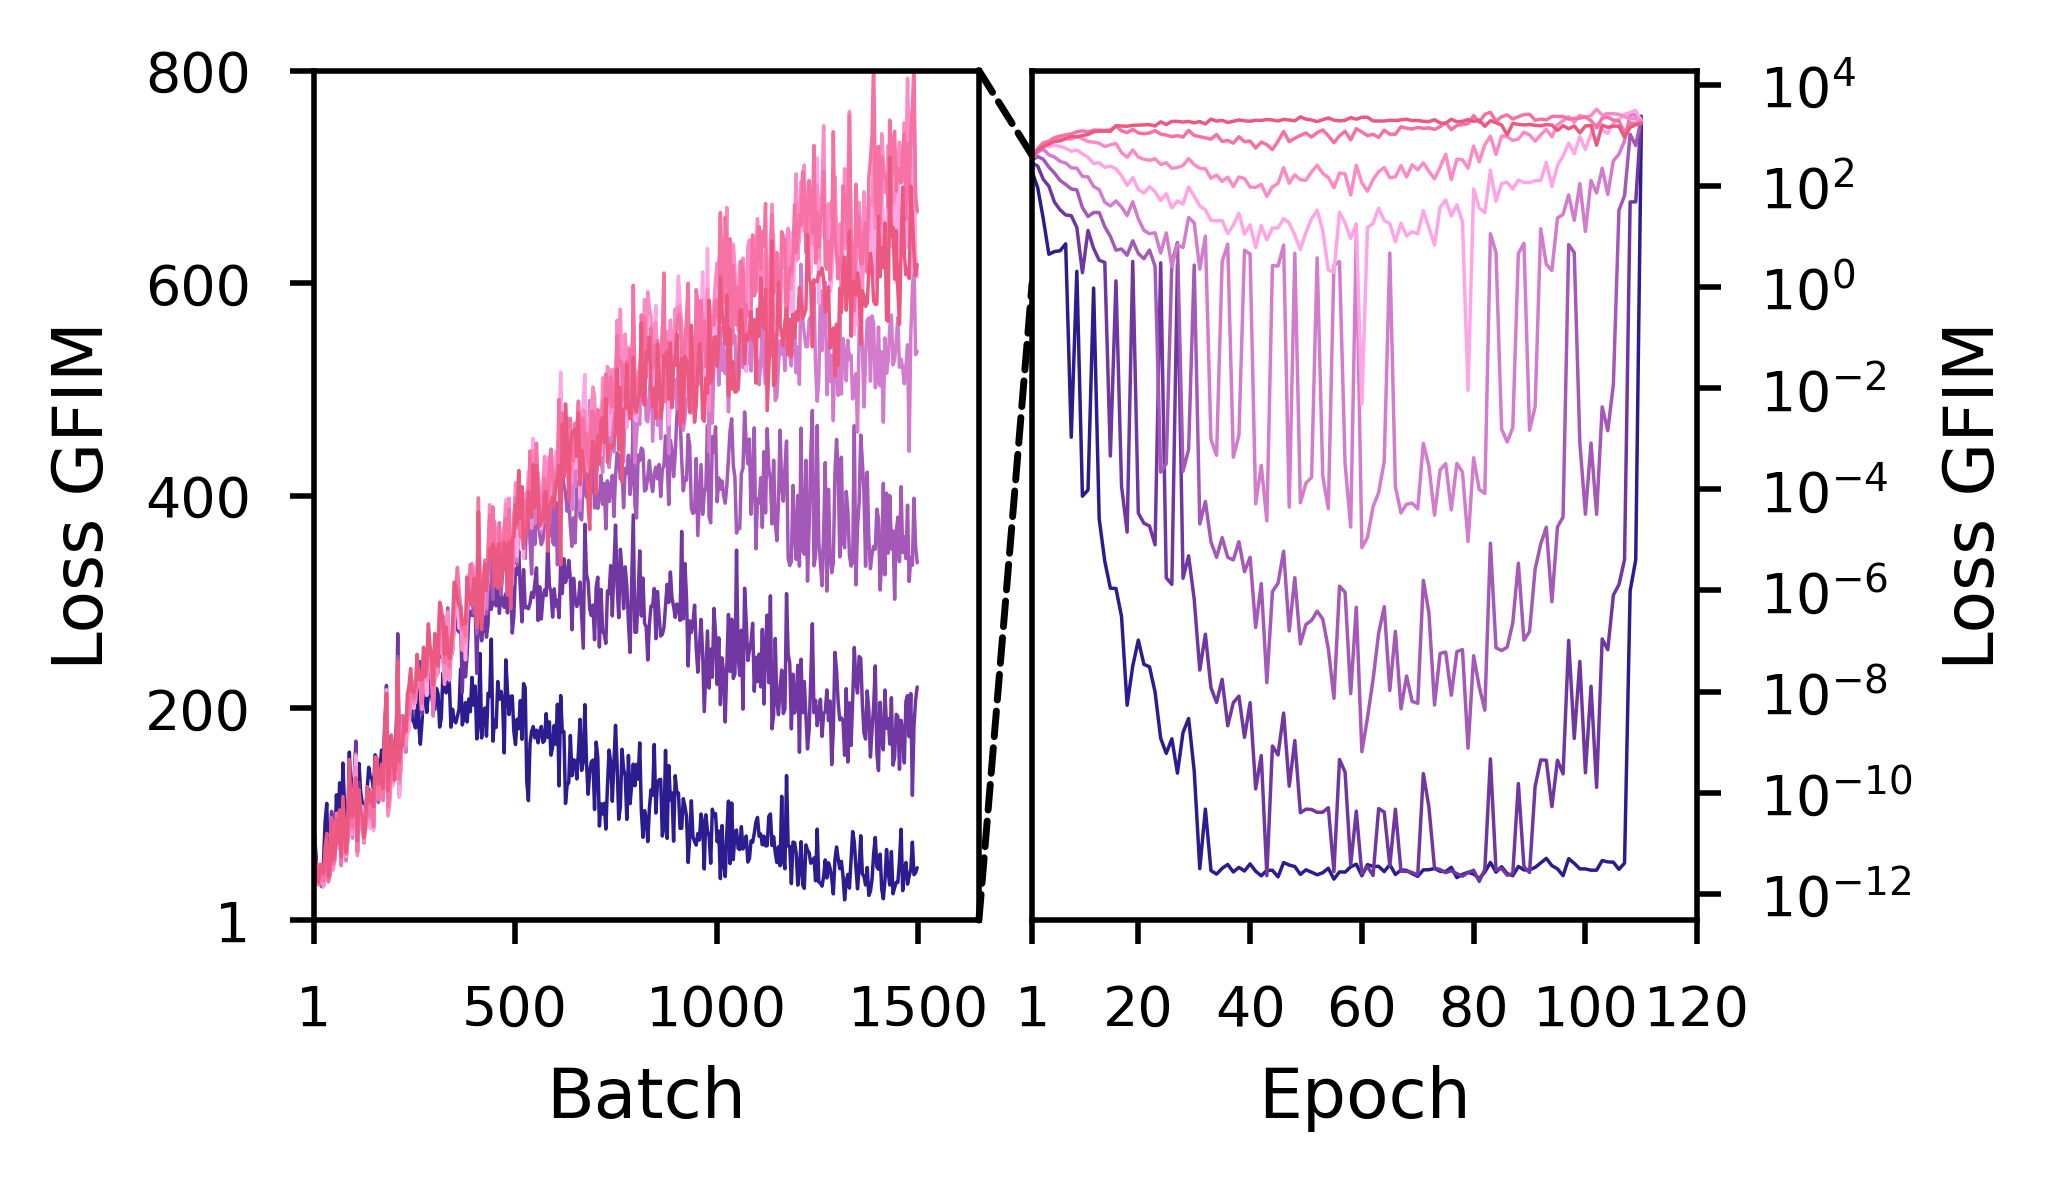
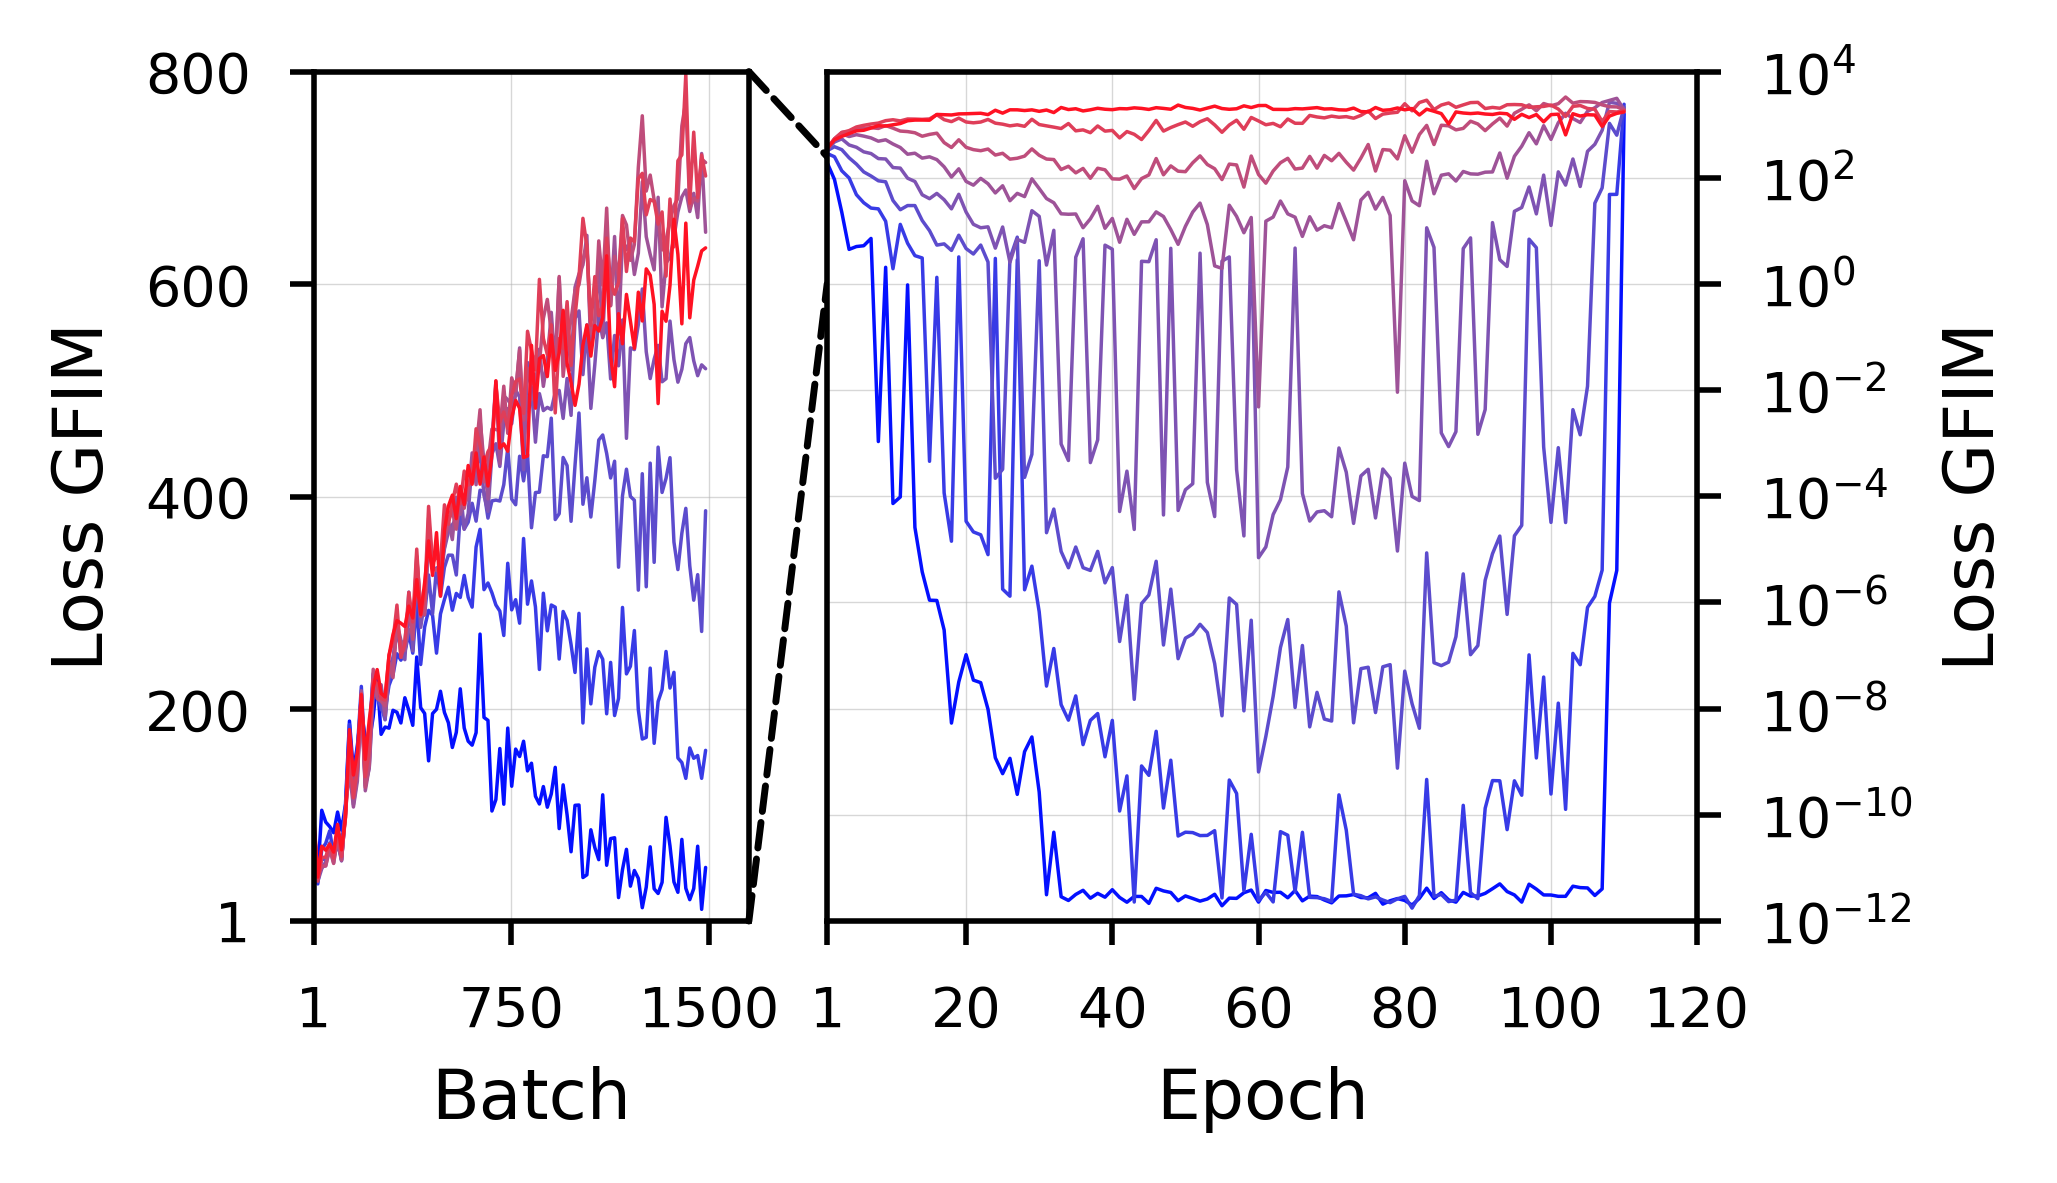
new

diff --git a/graphs.py b/graphs.py
@@ -53,7 +53,8 @@ plt.rcParams.update({
     "ytick.labelsize": 8
 })
 
-cols = ["#2b1c8f","#7037a3","#a458b7","#d37ccd","#ffa4e4","#fc8bc5","#f672a4","#ec5980"]
+#cols = ["#2b1c8f","#7037a3","#a458b7","#d37ccd","#ffa4e4","#fc8bc5","#f672a4","#ec5980"]
+cols = ["#0410ff","#383be6","#5c4ccd","#7e53b3","#9e5398","#bf4d7b","#df3e59","#ff1223"]
 linsize = 0.5
 
 #OriginalFIM
@@ -93,10 +94,10 @@ def make_OGFIM():
 
 def make_T1GFIM():
     T1FIMstep = pd.read_csv('T1_step.csv', sep=',')
-    T1FIMstep = T1FIMstep.iloc[::4]
+    T1FIMstep = T1FIMstep.iloc[::15]
     print(T1FIMstep.head())
 
-    fig, (ax1,ax2) = plt.subplots(1,2,figsize=set_size(516,0.5),gridspec_kw={'wspace': 0.08})
+    fig, (ax1,ax2) = plt.subplots(1,2,figsize=set_size(516,fraction=0.5),gridspec_kw={'wspace': 0.15},width_ratios=[1, 2])
     sea.set(style="whitegrid")
     
     sea.lineplot(ax=ax1,x="Step",y="0",data=T1FIMstep,label="0 (Low)",linewidth=linsize,color=cols[0])
@@ -114,9 +115,11 @@ def make_T1GFIM():
     ax1.yaxis.set_ticks([1,50,100,150,200,250])
 
     ax1.set_xlabel("Batch")
-    ax1.set_xlim([1,1650])
+    ax1.set_xlim([1,1500])
     start,end = ax1.get_xlim()
-    ax1.xaxis.set_ticks([1,500,1000,1500])
+    ax1.xaxis.set_ticks([1,750,1500])
+    ax1.grid(True,which='major',axis='both',linestyle='-',linewidth=0.2,alpha=0.5)
+    ax1.grid(True,which='minor',axis='both',linestyle='--',linewidth=0.2,alpha=0.5)
     ax1.get_legend().remove()
 
     #Epoch graphs
@@ -144,6 +147,9 @@ def make_T1GFIM():
     ax2.set_yscale('log')
     ax2.yaxis.set_ticks([1e-12,1e-10,1e-8,1e-6,1e-4,1e-2,1e0,1e2,1e4])
 
+    ax2.grid(True,which='major',axis='both',linestyle='-',linewidth=0.2,alpha=0.5)
+    ax2.grid(True,which='minor',axis='y',linestyle='--',linewidth=0.2,alpha=0.5)
+
     ax2.get_legend().remove()
 
     con1 = ConnectionPatch(xyA=(1,1),
@@ -168,11 +174,9 @@ def make_T1GFIM():
 
 def make_T2GFIM():
     FIMstep = pd.read_csv('T2_step.csv', sep=',')
-    FIMstep = FIMstep.iloc[::4]
-    
-    print(FIMstep.head())
+    FIMstep = FIMstep.iloc[::15]
 
-    fig, (ax1,ax2) = plt.subplots(1,2,figsize=set_size(516,0.5),gridspec_kw={'wspace': 0.08})
+    fig, (ax1,ax2) = plt.subplots(1,2,figsize=set_size(516,fraction=0.5),gridspec_kw={'wspace': 0.12},width_ratios=[1, 2])
     sea.set(style="whitegrid")
     
     sea.lineplot(ax=ax1,x="Step",y="0",data=FIMstep,label="0 (Low)",linewidth=linsize,color=cols[0])
@@ -192,7 +196,10 @@ def make_T2GFIM():
     ax1.set_xlabel("Batch")
     ax1.set_xlim([1,1650])
     start,end = ax1.get_xlim()
-    ax1.xaxis.set_ticks([1,500,1000,1500])
+    ax1.xaxis.set_ticks([1,750,1500])
+    ax1.grid(True,which='major',axis='both',linestyle='-',linewidth=0.2,alpha=0.5)
+    ax1.grid(True,which='minor',axis='both',linestyle='--',linewidth=0.2,alpha=0.5)
+    
     ax1.get_legend().remove()
 
     #Epoch graphs
@@ -218,7 +225,10 @@ def make_T2GFIM():
     ax2.yaxis.set_label_position("right")
     ax2.yaxis.tick_right()
     ax2.set_yscale('log')
+    ax2.set_ylim([1e-12,1e4])
     ax2.yaxis.set_ticks([1e-12,1e-10,1e-8,1e-6,1e-4,1e-2,1e0,1e2,1e4])
+    ax2.grid(True,which='major',axis='both',linestyle='-',linewidth=0.2,alpha=0.5)
+    ax2.grid(True,which='minor',axis='both',linestyle='--',linewidth=0.2,alpha=0.5)
 
     ax2.get_legend().remove()
 
@@ -244,11 +254,11 @@ def make_T2GFIM():
 
 def make_T3GFIM():
     FIMstep = pd.read_csv('T3_step.csv', sep=',')
-    FIMstep = FIMstep.iloc[::8]
+    FIMstep = FIMstep.iloc[::30]
     
     print(FIMstep.head())
 
-    fig, (ax1,ax2) = plt.subplots(1,2,figsize=set_size(516,0.5),gridspec_kw={'wspace': 0.14})
+    fig, (ax1,ax2) = plt.subplots(1,2,figsize=set_size(516,fraction=0.5),gridspec_kw={'wspace': 0.14},width_ratios=[1, 2])
     sea.set(style="whitegrid")
     
     sea.lineplot(ax=ax1,x="Step",y="0",data=FIMstep,label="0 (Low)",linewidth=linsize,color=cols[0])
@@ -266,9 +276,11 @@ def make_T3GFIM():
     ax1.yaxis.set_ticks([1,200,400,600,800,1000,1200,1400,1600,1800,2000])
 
     ax1.set_xlabel("Batch")
-    ax1.set_xlim([1,3100])
+    ax1.set_xlim([1,3000])
     start,end = ax1.get_xlim()
-    ax1.xaxis.set_ticks([1,1000,2000,3000])
+    ax1.xaxis.set_ticks([1,1500,3000])
+    ax1.grid(True,which='major',axis='both',linestyle='-',linewidth=0.2,alpha=0.5)
+    ax1.grid(True,which='minor',axis='both',linestyle='--',linewidth=0.2,alpha=0.5)
     ax1.get_legend().remove()
 
     #Epoch graphs
@@ -289,14 +301,17 @@ def make_T3GFIM():
 
     ax2.set_xlabel("Epoch")
     #set the range of x axis
-    ax2.set_xlim([1,65])
+    ax2.set_xlim([1,60])
     ax2.xaxis.set_ticks([1,20,40,60])
 
     ax2.set_ylabel("Loss GFIM")
     ax2.yaxis.set_label_position("right")
     ax2.yaxis.tick_right()
     ax2.set_yscale('log')
+    ax2.set_ylim([1e-12,1e5])
     ax2.yaxis.set_ticks([1e-12,1e-10,1e-8,1e-6,1e-4,1e-2,1e0,1e2,1e4])
+    ax2.grid(True,which='major',axis='both',linestyle='-',linewidth=0.2,alpha=0.5)
+    ax2.grid(True,which='minor',axis='both',linestyle='--',linewidth=0.2,alpha=0.5)
 
     ax2.get_legend().remove()
 
@@ -322,11 +337,9 @@ def make_T3GFIM():
 
 def make_T4GFIM():
     FIMstep = pd.read_csv('T4_step.csv', sep=',')
-    FIMstep = FIMstep.iloc[::8]
-    
-    print(FIMstep.head())
+    FIMstep = FIMstep.iloc[::15]
 
-    fig, (ax1,ax2) = plt.subplots(1,2,figsize=set_size(516,0.5),gridspec_kw={'wspace': 0.14})
+    fig, (ax1,ax2) = plt.subplots(1,2,figsize=set_size(516,fraction=0.5),gridspec_kw={'wspace': 0.14},width_ratios=[1, 2])
     sea.set(style="whitegrid")
     
     sea.lineplot(ax=ax1,x="Step",y="0",data=FIMstep,label="0 (Low)",linewidth=linsize,color=cols[0])
@@ -341,13 +354,15 @@ def make_T4GFIM():
     #plt.ylabel("T1 GFIM")
     ax1.set_ylabel("Loss GFIM")
     ax1.set_ylim([1,60000])
-    ax1.yaxis.set_ticks([1,20000,40000,60000])
+    ax1.yaxis.set_ticks([1,10000,20000,30000,40000,50000,60000])
     #ax1.set_yscale('log')
 
     ax1.set_xlabel("Batch")
-    ax1.set_xlim([1,1300])
+    ax1.set_xlim([1,1200])
     start,end = ax1.get_xlim()
     ax1.xaxis.set_ticks([1,400,800,1200])
+    ax1.grid(True,which='major',axis='both',linestyle='-',linewidth=0.2,alpha=0.5)
+    ax1.grid(True,which='minor',axis='y',linestyle='--',linewidth=0.2,alpha=0.5)
     ax1.get_legend().remove()
 
     #Epoch graphs
@@ -368,14 +383,16 @@ def make_T4GFIM():
 
     ax2.set_xlabel("Epoch")
     #set the range of x axis
-    ax2.set_xlim([1,55])
-    ax2.xaxis.set_ticks([1,20,40])
+    ax2.set_xlim([1,50])
+    ax2.xaxis.set_ticks([1,10,20,30,40,50])
 
     ax2.set_ylabel("Loss GFIM")
     ax2.yaxis.set_label_position("right")
     ax2.yaxis.tick_right()
     ax2.set_yscale('log')
     ax2.yaxis.set_ticks([1e-10,1e-8,1e-6,1e-4,1e-2,1e0,1e2,1e4,1e6])
+    ax2.grid(True,which='major',axis='both',linestyle='-',linewidth=0.2,alpha=0.5)
+    ax2.grid(True,which='minor',axis='y',linestyle='--',linewidth=0.2,alpha=0.5)
 
     ax2.get_legend().remove()
 
@@ -634,13 +651,13 @@ def make_VIT():
     fig.savefig("Pics/VIT001.png", bbox_inches='tight', dpi=500)
 
 def make_VIT0001():
-        #0001--------------------------------------------------------------------------------
+    #0001--------------------------------------------------------------------------------
 
     FIMstep = pd.read_csv('VIT0001_step.csv', sep=',')
     #T1FIMstep = T1FIMstep.iloc[::4]
     print(FIMstep.head())
 
-    fig, (ax1,ax2) = plt.subplots(1,2,figsize=set_size(516,fraction=0.5),gridspec_kw={'wspace': 0.12})
+    fig, (ax1,ax2) = plt.subplots(1,2,figsize=set_size(516,fraction=0.5),gridspec_kw={'wspace': 0.12},width_ratios=[1,2])
     sea.set(style="whitegrid")
     
     sea.lineplot(ax=ax1,x="Step",y="0",data=FIMstep,label="0 (Low)",linewidth=linsize,color=cols[0])
@@ -722,7 +739,7 @@ def make_VIT00001():
     #T1FIMstep = T1FIMstep.iloc[::4]
     print(FIMstep.head())
 
-    fig, (ax1,ax2) = plt.subplots(1,2,figsize=set_size(516,fraction=0.5),gridspec_kw={'wspace': 0.12})
+    fig, (ax1,ax2) = plt.subplots(1,2,figsize=set_size(516,fraction=0.5),gridspec_kw={'wspace': 0.12},width_ratios=[1,2])
     sea.set(style="whitegrid")
     
     sea.lineplot(ax=ax1,x="Step",y="0",data=FIMstep,label="0 (Low)",linewidth=linsize,color=cols[0])
@@ -743,7 +760,7 @@ def make_VIT00001():
     ax1.set_xlabel("Batch")
     ax1.set_xlim([1,200])
     start,end = ax1.get_xlim()
-    ax1.xaxis.set_ticks([1,50,100,150,200])
+    ax1.xaxis.set_ticks([1,100,200])
     ax1.get_legend().remove()
     ax1.grid(True,which='major',axis='both',linestyle='-',linewidth=0.2,alpha=0.5)
     ax1.grid(True,which='minor',axis='y',linestyle='--',linewidth=0.2,alpha=0.5)
@@ -805,8 +822,10 @@ def make_VIT000001():
     #T1FIMstep = T1FIMstep.iloc[::4]
     #print(T1FIMstep.head())
 
-    fig, (ax1,ax2) = plt.subplots(1,2,figsize=set_size(516,fraction=0.5),gridspec_kw={'wspace': 0.12})
+    fig, (ax1,ax2) = plt.subplots(1,2,figsize=set_size(516,fraction=0.5),gridspec_kw={'wspace': 0.12},width_ratios=[1,2])
     sea.set(style="whitegrid")
+
+    
     
     sea.lineplot(ax=ax1,x="Step",y="0",data=FIMstep,label="0 (Low)",linewidth=linsize,color=cols[0])
     sea.lineplot(ax=ax1,x="Step",y="1",data=FIMstep,label="1",linewidth=linsize,color=cols[1])
@@ -826,7 +845,7 @@ def make_VIT000001():
     ax1.set_xlim([1,200])
     ax1.yaxis.set_minor_locator(ticker.AutoMinorLocator(5))
     start,end = ax1.get_xlim()
-    ax1.xaxis.set_ticks([1,50,100,150,200])
+    ax1.xaxis.set_ticks([1,100,200])
     ax1.get_legend().remove()
     ax1.grid(True,which='major',axis='both',linestyle='-',linewidth=0.2,alpha=0.5)
     ax1.grid(True,which='minor',axis='y',linestyle='--',linewidth=0.2,alpha=0.5)
@@ -880,4 +899,6 @@ def make_VIT000001():
 
     fig.savefig("Pics/VIT000001.png", bbox_inches='tight', dpi=500)
 
-make_HAMcom()
+#make_VIT00001()
+make_VIT000001()
+#make_VIT()
